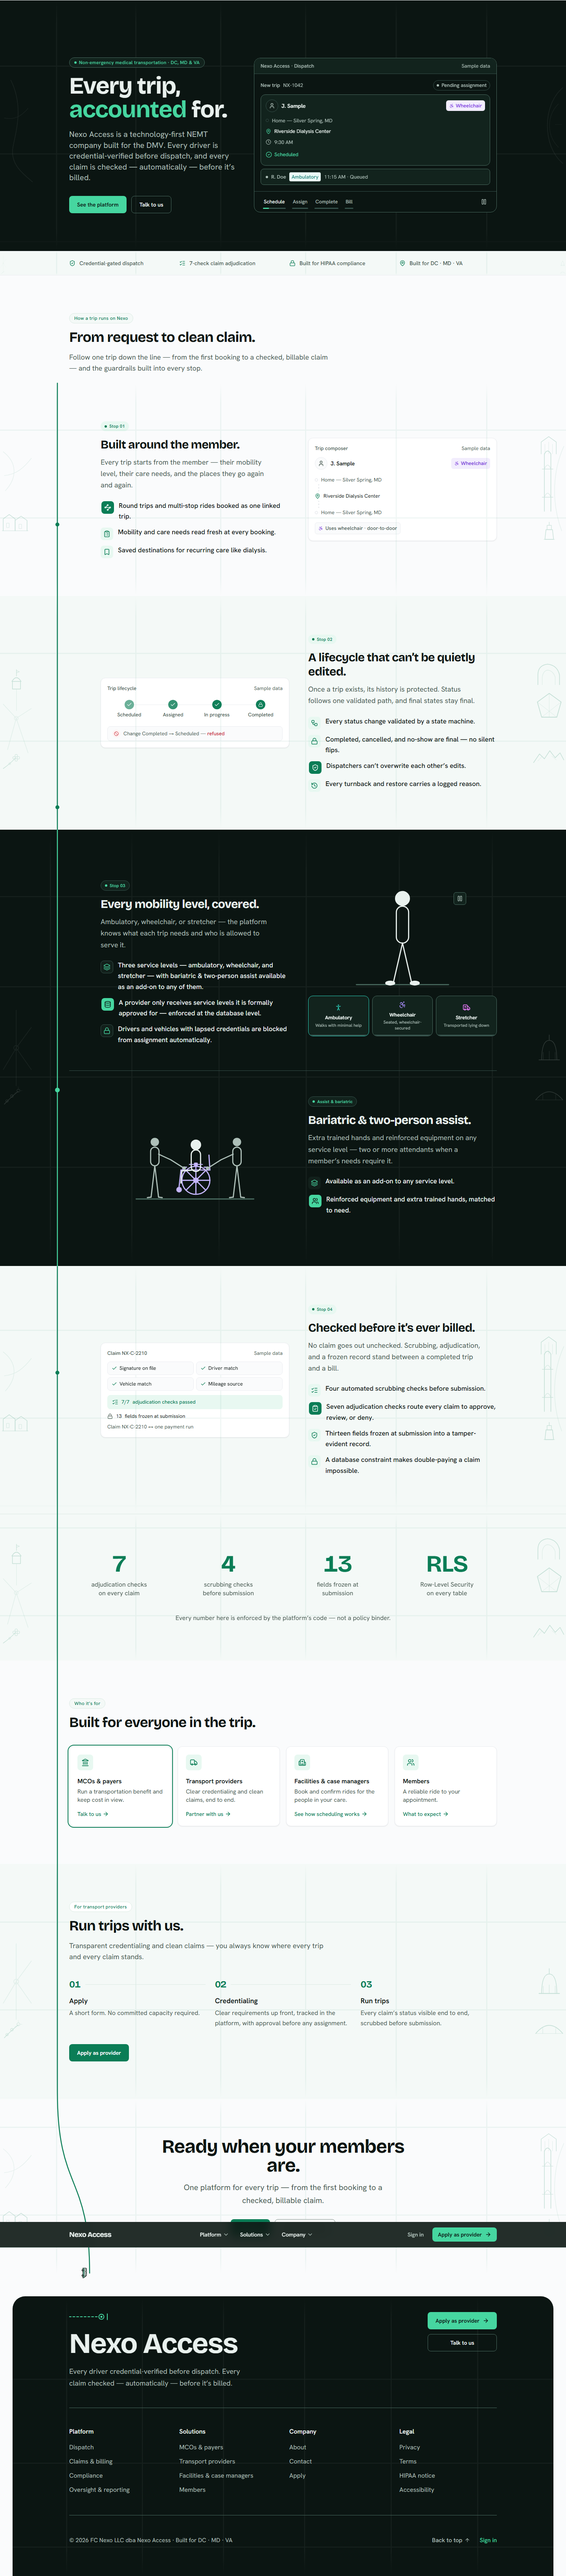
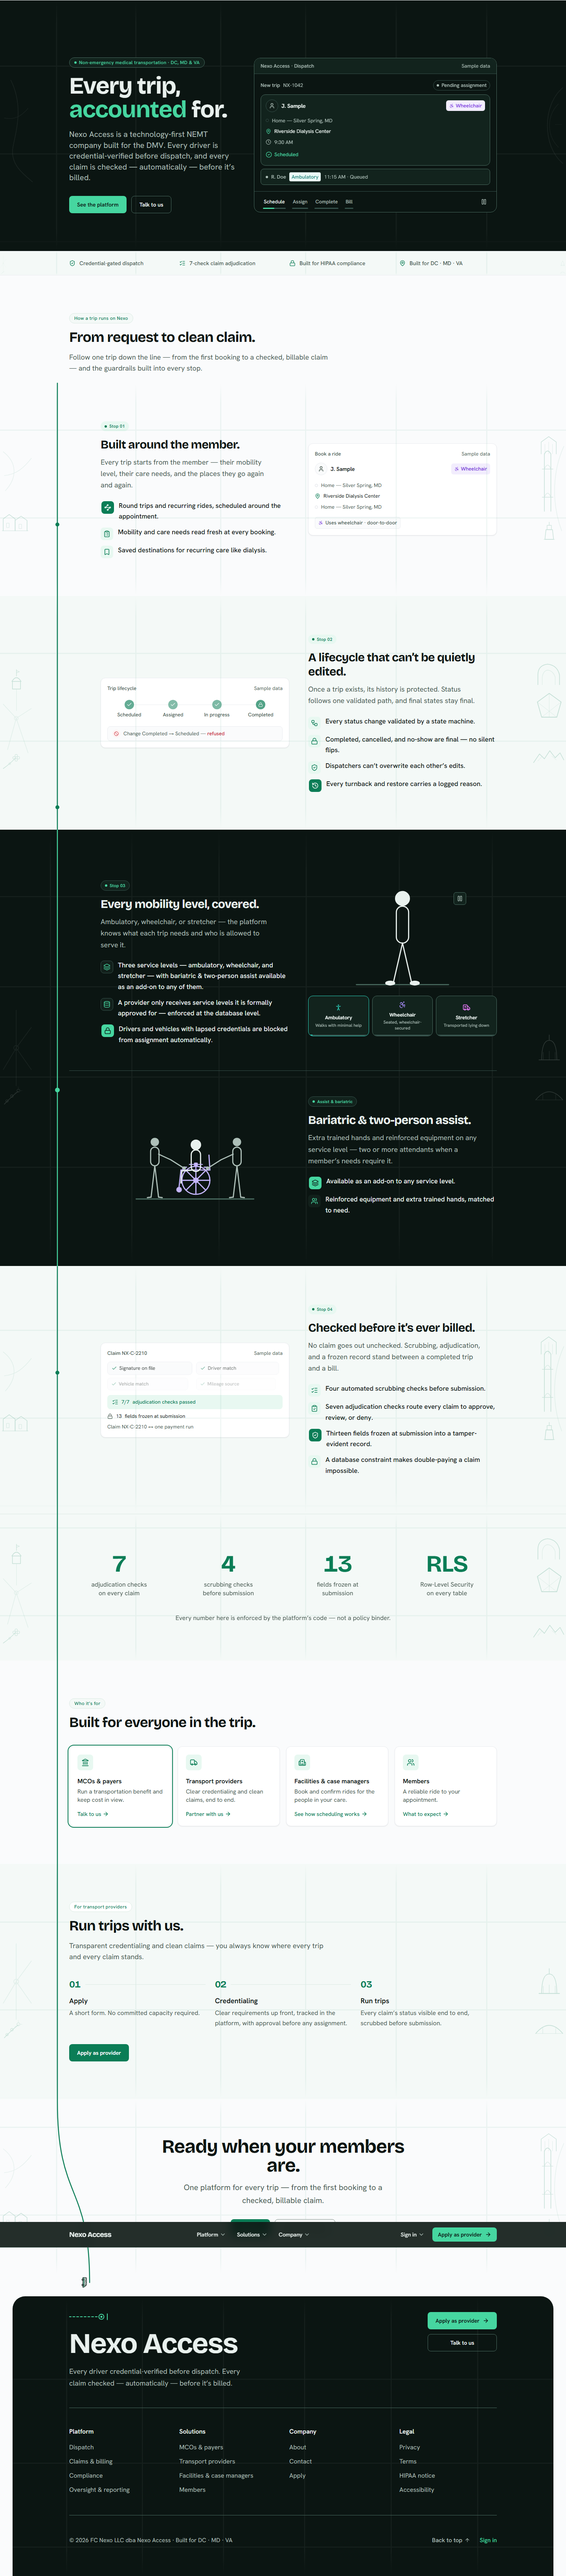
Stage 15: Sign-in nav panel - three portal doors, admin unlisted, seam contract

diff --git a/src/components/chrome/Navbar.tsx b/src/components/chrome/Navbar.tsx
@@ -9,6 +9,7 @@ import {
   PLATFORM_ITEMS,
   SOLUTIONS_ITEMS,
   COMPANY_ITEMS,
+  SIGNIN_ITEMS,
   type NavItem,
 } from "@/lib/nav";
 import { Button } from "@/components/ui/Button";
@@ -29,7 +30,7 @@ import { cn } from "@/utils/cn";
 //   - a "magic line" (Radix Indicator) slides between triggers on hover/focus;
 //   - the caret rotates 180deg on open; the panel grows origin-aware from its trigger;
 //   - panel items cascade in; each item has a fill sweep + icon-chip fill + arrow nudge;
-//   - the CTAs get a lift/arrow and an underline slide; the mobile items cascade too.
+//   - the Apply CTA gets a lift + arrow nudge; the mobile items cascade too.
 // Every hover state has a focus twin (group-hover + group-focus-within / focus-visible).
 
 // The ONE nav theme bundle — the dark/on-ink register, used in every state. Panel + overlay are
@@ -83,10 +84,14 @@ function DesktopMenu({
   label,
   items,
   panelClass,
+  align = "left",
 }: {
   label: string;
   items: NavItem[];
   panelClass: string;
+  /** Which trigger edge the panel anchors to. Right-seated menus (Sign in) anchor RIGHT so a wide
+   *  panel opens inward instead of off the viewport's right edge; the grow-origin follows (.nav-panel-right). */
+  align?: "left" | "right";
 }) {
   return (
     <NavigationMenu.Item className="relative">
@@ -108,7 +113,8 @@ function DesktopMenu({
       </NavigationMenu.Trigger>
       <NavigationMenu.Content
         className={cn(
-          "nav-panel absolute left-0 top-full z-50 mt-1.5 rounded-xl border p-2 shadow-md",
+          "nav-panel absolute top-full z-50 mt-1.5 rounded-xl border p-2 shadow-md",
+          align === "right" ? "nav-panel-right right-0" : "left-0",
           NT.panel,
           panelClass
         )}
@@ -308,6 +314,8 @@ export function Navbar() {
           <div className="flex h-16 items-center justify-between gap-4">
             <Wordmark />
 
+            {/* The ONE nav landmark (Stage-1 rule: the nav landmark appears exactly once). Platform /
+                Solutions / Company live here with the shared magic line. */}
             <NavigationMenu.Root
               aria-label="Primary"
               delayDuration={100}
@@ -326,15 +334,28 @@ export function Navbar() {
             </NavigationMenu.Root>
 
             <div className="hidden items-center gap-2 lg:flex">
-              {/* Sign in — underline slide on hover/focus. Always the on-ink variant (dark bar). */}
-              <Button
-                href={SITE.appUrl}
-                variant="ghostOnInk"
-                size="sm"
-                className="nav-signin"
-              >
-                <span className="nav-signin-label">Sign in</span>
-              </Button>
+              {/* Sign in — a peer menu in the nav grammar (Stage 15): Radix trigger + caret + magic line
+                  + solid-ink panel + item cascade, same weight/register as the left menus, seated in the
+                  right cluster before Apply. It gets its OWN NavigationMenu.Root so its indicator tracks
+                  its own trigger — but that Root renders `asChild` as a <div>, NOT a second <nav>, so the
+                  site keeps exactly ONE nav landmark (the "Primary" root above; Stage-1 rule). Lists the
+                  three customer portal doors; admin is deliberately excluded (law §7.4). Panel anchors
+                  RIGHT so it opens inward. */}
+              <NavigationMenu.Root asChild delayDuration={100} skipDelayDuration={300}>
+                <div className="relative">
+                  <NavigationMenu.List className="flex items-center">
+                    <DesktopMenu
+                      label="Sign in"
+                      items={SIGNIN_ITEMS}
+                      panelClass="w-[26rem]"
+                      align="right"
+                    />
+                    <NavigationMenu.Indicator className="nav-indicator">
+                      <div className={cn("nav-indicator-bar", NT.indicatorBar)} />
+                    </NavigationMenu.Indicator>
+                  </NavigationMenu.List>
+                </div>
+              </NavigationMenu.Root>
               {/* Apply — lift + arrow nudge; the single bright accent pop on the dark bar. */}
               <Button
                 href="/apply"
@@ -391,15 +412,16 @@ export function Navbar() {
             <MobileAccordion label="Platform" items={PLATFORM_ITEMS} onNavigate={closeMobile} index={0} />
             <MobileAccordion label="Solutions" items={SOLUTIONS_ITEMS} onNavigate={closeMobile} index={1} />
             <MobileAccordion label="Company" items={COMPANY_ITEMS} onNavigate={closeMobile} index={2} />
+            {/* Sign in — a fourth accordion group in the same grammar (Stage 15), holding the three portal
+                doors. The pinned row below keeps ONLY the primary CTA so "Sign in" appears exactly once
+                (no duplicate affordance). */}
+            <MobileAccordion label="Sign in" items={SIGNIN_ITEMS} onNavigate={closeMobile} index={3} />
           </div>
 
           <div
             className="nav-cascade flex shrink-0 flex-col gap-3 border-t border-on-ink-border p-6"
-            style={{ ["--i" as string]: 3 }}
+            style={{ ["--i" as string]: 4 }}
           >
-            <Button href={SITE.appUrl} variant="secondaryOnInk" size="md" className="w-full" onClick={closeMobile}>
-              Sign in
-            </Button>
             <Button href="/apply" variant="primaryOnInk" size="md" className="w-full" onClick={closeMobile}>
               Apply as provider
             </Button>

diff --git a/src/lib/site.ts b/src/lib/site.ts
@@ -2,11 +2,25 @@
 // ALL chrome (Navbar, Footer, metadata, links) reads from here — never hardcode
 // a URL, email, or legal name anywhere else in the app.
 
+const APP_URL = "https://app.nexoaccess.com";
+
+// The three CUSTOMER-facing portal doors (Stage 15). Admin is DELIBERATELY excluded from every public
+// surface — the marketing site never links to, names, or hints at the admin portal (security posture;
+// recorded in law §7.4). The platform's own /login picker is the fallback door for direct visits.
+export type Portal = "member" | "provider" | "care";
+
 export const SITE = {
   name: "Nexo Access",
   legalName: "FC Nexo LLC",
   domain: "https://nexoaccess.com",
-  appUrl: "https://app.nexoaccess.com",
+  // The app (platform) ORIGIN — the identity counterpart to `domain`. Most links want a specific door,
+  // so they use `loginUrl` / `portalLogin` below (both built from the same APP_URL); `appUrl` is kept as
+  // the canonical bare-origin field for JSON-LD / future surfaces that need the origin itself.
+  appUrl: APP_URL,
+  // The platform's own /login picker — the SAME-TAB fallback door: the footer "Sign in", and where an
+  // unknown/absent `?portal=` param lands gracefully today (see portalLogin). A signed-in surface with
+  // no audience preselected.
+  loginUrl: `${APP_URL}/login`,
   // The ONE canonical public email (Stage 13 locked ruling). info@ is the only address that appears
   // ANYWHERE public — rendered pages, mailto links, JSON-LD, and the form auto-ack all read from here.
   email: "info@nexoaccess.com",
@@ -15,6 +29,11 @@ export const SITE = {
   // ADDRESS stays banned (none public).
   phone: { display: "(202) 409-2970", e164: "+12024092970" },
   serviceArea: ["DC", "MD", "VA"],
+  // Deep-link straight to one portal door (Stage 15). THE single source for portal URLs — never hardcode
+  // `/login?portal=…` anywhere. `?portal=` is a HINT the platform honors LATER (platform-repo task,
+  // flagged in DEPLOY-NOTES); TODAY an unknown/absent param lands gracefully on the loginUrl picker.
+  // These are same-tab PRODUCT HANDOFFS, not external references (law §7.4) — callers add no target.
+  portalLogin: (portal: Portal) => `${APP_URL}/login?portal=${portal}`,
 } as const;
 
 // How the founder is referred to in copy (Stage 9). ONE constant so the owner can later set a real

diff --git a/src/app/globals.css b/src/app/globals.css
@@ -225,6 +225,9 @@ a:active {
 /* Panel — origin-aware entrance: grows from its trigger's top-left corner, scale(0.96->1)
    + 8px rise + fade. Open <=200ms, close faster. Decelerate ease. */
 .nav-panel { transform-origin: top left; }
+/* Right-cluster menus (Sign in) anchor to the trigger's RIGHT edge, so the panel must also GROW from
+   its top-right corner — otherwise it would scale out of a corner that isn't pinned to the trigger. */
+.nav-panel-right { transform-origin: top right; }
 .nav-panel[data-state="open"]   { animation: navPanelIn 200ms cubic-bezier(0.22, 1, 0.36, 1); }
 .nav-panel[data-state="closed"] { animation: navPanelOut 130ms cubic-bezier(0.22, 1, 0.36, 1); }
 @keyframes navPanelIn {
@@ -289,21 +292,9 @@ a:active {
 .nav-apply-arrow { transition: transform 200ms cubic-bezier(0.22, 1, 0.36, 1); }
 .nav-apply:hover .nav-apply-arrow, .nav-apply:focus-visible .nav-apply-arrow { transform: translateX(3px); }
 
-/* "Sign in" — underline slides in from the left on hover/focus. */
-.nav-signin-label { position: relative; }
-.nav-signin-label::after {
-  content: "";
-  position: absolute;
-  left: 0; right: 0; bottom: -2px;
-  height: 1.5px;
-  border-radius: 9999px;
-  background: currentColor;
-  transform: scaleX(0);
-  transform-origin: left;
-  transition: transform 200ms cubic-bezier(0.22, 1, 0.36, 1);
-}
-.nav-signin:hover .nav-signin-label::after,
-.nav-signin:focus-visible .nav-signin-label::after { transform: scaleX(1); }
+/* (Stage 15) The old ghost "Sign in" underline-slide was removed with that link — "Sign in" is now a
+   dropdown menu (trigger + caret + magic line), so it inherits the shared panel/cascade/indicator
+   grammar above and needs no bespoke underline rule. */
 
 /* ── THE PREMIUM TERMINUS (Stage 6.8). (a) Footer-link underline-slide — the nav item grammar on the
    footer's column links + Sign in (every hover has a focus twin). (b) The PLAY-ONCE arrival

diff --git a/src/lib/nav.ts b/src/lib/nav.ts
@@ -8,7 +8,9 @@ import {
   Truck,
   Hospital,
   Users,
+  UserRound,
 } from "lucide-react";
+import { SITE } from "@/lib/site";
 
 // Single source of truth for the site's information architecture. Navbar and
 // Footer both read from here so a route never appears in one place but not the
@@ -87,6 +89,34 @@ export const SOLUTIONS_ITEMS: NavItem[] = [
 export const COMPANY_ITEMS: NavItem[] = [
   { label: "About", href: "/about" },
   { label: "Contact", href: "/contact" },
+];
+
+// "Sign in" menu (Stage 15) — the three CUSTOMER-facing portal doors, in the nav item grammar
+// (icon + title + one-line desc). hrefs come ONLY from SITE.portalLogin (single source; the `?portal=`
+// hint the platform honors later). Admin is DELIBERATELY absent from every public surface (law §7.4).
+// Icons reuse the established audience vocabulary so a reader recognizes their own door at a glance:
+// Truck = provider world, Hospital = facilities/case-manager world; UserRound (a single account figure,
+// distinct from the Users audience glyph) = the individual member. Descriptions are gate-clean — they
+// describe portal contents (upcoming/past rides, claims/credentials/scheduling), never live "tracking".
+export const SIGNIN_ITEMS: NavItem[] = [
+  {
+    label: "Member",
+    href: SITE.portalLogin("member"),
+    description: "See your upcoming and past rides.",
+    icon: UserRound,
+  },
+  {
+    label: "Provider",
+    href: SITE.portalLogin("provider"),
+    description: "Claims, credentials & scheduling.",
+    icon: Truck,
+  },
+  {
+    label: "Care portal",
+    href: SITE.portalLogin("care"),
+    description: "For case managers & facilities — schedule rides for the people in your care.",
+    icon: Hospital,
+  },
 ];
 
 // Footer columns. Platform reuses the four anchors; Solutions reuses the four

diff --git a/src/components/solutions/SolutionPage.tsx b/src/components/solutions/SolutionPage.tsx
@@ -28,8 +28,6 @@ export type SolutionCta = {
   body?: string;
   label: string;
   href: string;
-  /** external app URL (member portal) → real anchor target/rel */
-  external?: boolean;
 };
 
 const eyebrowPill =
@@ -158,13 +156,10 @@ export function SolutionPage({
               <p className="mx-auto mt-4 max-w-xl text-lg leading-relaxed text-muted">{cta.body}</p>
             ) : null}
             <div className="mt-8">
-              <Button
-                href={cta.href}
-                variant="primary"
-                size="md"
-                target={cta.external ? "_blank" : undefined}
-                rel={cta.external ? "noopener noreferrer" : undefined}
-              >
+              {/* Stage 15: the solution-page CTA is now always SAME-TAB. The only external CTA had been
+                  the member portal (target=_blank); portal navigation is a same-tab product handoff
+                  (law §7.4), so the `external` escape hatch was removed rather than left dead. */}
+              <Button href={cta.href} variant="primary" size="md">
                 {cta.label}
               </Button>
             </div>

diff --git a/src/app/contact/page.tsx b/src/app/contact/page.tsx
@@ -101,14 +101,11 @@ export default function ContactPage() {
               <p className="mt-2 text-base leading-relaxed text-muted">
                 Need a ride or have a question about one? Sign in to your member portal.
               </p>
-              <Link
-                href={SITE.appUrl}
-                target="_blank"
-                rel="noopener noreferrer"
-                className={routeLink}
-              >
+              {/* Stage 15: the member portal door, SAME-TAB (product handoff, not an external reference —
+                  law §7.4). portalLogin is the single source; the old target=_blank + "(opens in a new
+                  tab)" cue are gone now that portal navigation stays in-tab. */}
+              <Link href={SITE.portalLogin("member")} className={routeLink}>
                 Member sign in
-                <span className="sr-only"> (opens in a new tab)</span>
                 <ArrowRight className="h-4 w-4 transition-transform group-hover:translate-x-0.5" aria-hidden="true" />
               </Link>
             </div>

diff --git a/src/components/chrome/Footer.tsx b/src/components/chrome/Footer.tsx
@@ -133,7 +133,10 @@ export function Footer() {
             </p>
             <div className="flex items-center gap-6">
               <BackToTop className={utilityLink} />
-              <Link href={SITE.appUrl} className={signInLink}>
+              {/* The fallback picker door (Stage 15): plain /login, no portal hint, SAME-TAB (a product
+                  handoff, not an external reference — law §7.4). The nav Sign-in menu offers the
+                  audience-specific doors; this footer link lands on the platform's own picker. */}
+              <Link href={SITE.loginUrl} className={signInLink}>
                 Sign in
               </Link>
             </div>

diff --git a/src/app/solutions/members/page.tsx b/src/app/solutions/members/page.tsx
@@ -102,8 +102,9 @@ export default function MembersPage() {
         heading: "Ready for your next ride?",
         body: "Sign in to see your rides.",
         label: "Member sign in",
-        href: SITE.appUrl,
-        external: true,
+        // Stage 15: the member portal door, SAME-TAB (product handoff, not an external reference —
+        // law §7.4). portalLogin is the single source; the old target=_blank + new-tab cue are gone.
+        href: SITE.portalLogin("member"),
       }}
     />
   );

diff --git a/.claude/skills/nexo-brand/SKILL.md b/.claude/skills/nexo-brand/SKILL.md
@@ -386,7 +386,7 @@ optional body + icon proof lines) → ONE closing CTA band.**
   column. DOM order is always TEXT-then-mock (reading order) even when visually flipped (`lg:order`).
 - **ONE primary action per page (the B5 rule):** the page BODY has exactly ONE actionable CTA — mcos =
   Talk to us → /contact · providers = Apply as provider → /apply · facilities = Talk to us → /contact ·
-  members = Member sign in → `SITE.appUrl` (EXTERNAL → `target="_blank"` + `rel="noopener noreferrer"`).
+  members = Member sign in → `SITE.portalLogin("member")` (SAME-TAB portal handoff — see §7.4; NOT `target="_blank"`).
 - **Tonal rhythm:** interior pages stay WHITE/TINT — the terminus footer is the page's ONLY ink (no new
   ink chapters). Hero = tint; proof sections alternate white/tint by parity; the CTA alternates off the
   section count; hairline `border-border` between bands.
@@ -437,8 +437,8 @@ only (the footer is the only ink). Copy gate additions in §7.2.
 - **/contact** — eyebrow → ONE h1 → subline (payers/facilities) → PRIMARY ACTION card: a real
   `mailto:${SITE.email}` button AND the address printed as SELECTABLE text beside it (NEVER mailto-only)
   + ONE soft line ("you'll hear back from the person who built the platform", NO SLA) → two quiet
-  ROUTING cards (providers → /apply; MEMBERS → `SITE.appUrl` external, `target="_blank"` +
-  `rel="noopener noreferrer"` — never route members to email) → `SERVICE_AREA_LINE`. The contact FORM now
+  ROUTING cards (providers → /apply; MEMBERS → `SITE.portalLogin("member")`, SAME-TAB portal handoff (§7.4)
+  — never route members to email) → `SERVICE_AREA_LINE`. The contact FORM now
   lives in the primary action card (§6.6); the `mailto:` path stays below as a quiet "Prefer email?" line
   (link + selectable address). AmbientMap DC bookends.
 
@@ -634,7 +634,7 @@ undecided; copy must NOT commit to one.
   Do not scatter it elsewhere.
 - **NO response-time promise / SLA** — "within 24 hours" (or any hours / business-days pledge) is
   BANNED. Soft framing only ("you'll hear back from the person who built the platform").
-- **MEMBERS are never routed to email for rides** — always to the member portal (`SITE.appUrl`).
+- **MEMBERS are never routed to email for rides** — always to the member portal (`SITE.portalLogin("member")`, same-tab; §7.4).
 - **"certified" is banned in rendered copy** (Stage 8 — unsubstantiated credential on a pre-live
   product; gate it behind a `launch.ts` flag if a real certification ever lands).
 - **PHI MICROCOPY on every lead form (Stage 10S):** "Please don't include any member or health
@@ -653,6 +653,31 @@ CLAIMS stay launch-flag governed — **no "serving" in any title/description/OG 
 `LIVE_OPERATIONS` ("Built for…" / neutral geography only). Visible-copy keyword weaving is MINIMAL and
 surgical (one spelled-out "non-emergency medical transportation (NEMT)" where a human would write it),
 each edit gate-audited. No keyword stuffing; no duplicate descriptions.
+
+### 7.4 THE SIGN-IN / PORTAL DOCTRINE (Stage 15)
+"Sign in" is a THIRD nav menu in the established grammar (Radix trigger + caret + magic-line
+participation + solid-ink panel + item cascade), **not a bare link**. It lists exactly the THREE
+customer-facing portal doors — **Member**, **Provider**, **Care portal** (for case managers &
+facilities). Mobile: a fourth accordion group in the same grammar; the pinned CTA row keeps ONLY
+"Apply as provider" so "Sign in" appears exactly once (no duplicate affordance).
+- **ADMIN IS EXCLUDED FROM EVERY PUBLIC SURFACE — permanently.** The marketing site never links to,
+  names, labels, or hints at an admin / staff / ops portal (nav, footer, sitemap, JSON-LD, visible
+  copy, alt/aria/sr-only). Security posture: the admin door is not advertised. Only the three customer
+  doors + the platform's own `/login` picker appear publicly.
+- **ONE SOURCE for portal URLs — `SITE.portalLogin(portal)`** → `${appUrl}/login?portal=<member|provider|care>`.
+  Never hardcode `/login?portal=…` anywhere. `?portal=` is a HINT the platform honors LATER
+  (platform-repo task, flagged in DEPLOY-NOTES); TODAY an unknown/absent param lands gracefully on
+  `SITE.loginUrl` (the picker), which is also the plain footer "Sign in" fallback.
+- **Portal navigation is a SAME-TAB product handoff, not an external reference.** All OUR portal links
+  open same-tab — **no `target="_blank"`, no `rel="noopener"`, no "(opens in a new tab)" cue.** (This
+  is the amendment that flipped the members-page CTA + the /contact routing card + the footer to
+  same-tab.) It applies ONLY to our portal doors; genuine THIRD-PARTY links — e.g. the HHS OCR
+  complaint page on `/hipaa` — KEEP `target="_blank"` + the new-tab cue.
+- **Portal-door subtitles are gate-clean (§7):** they describe portal CONTENTS ("See your upcoming and
+  past rides.", "Claims, credentials & scheduling.") — **NEVER "track" / "tracking" / live status /
+  ETA / map.** Member-facing language stays launch-flag governed.
+- Harness: **I7 asserts the Sign-in trigger is present AND opens** — a regression back to a plain link
+  drops it from the `aria-expanded` trigger set, which I7 now catches.
 
 ## 8. THE VISUAL VERIFICATION LOOP (mandatory, every visual change)
 Implement → run the production server → Playwright screenshots at **390 / 768 / 1280** (scratchpad

diff --git a/DEPLOY-NOTES.md b/DEPLOY-NOTES.md
@@ -75,6 +75,20 @@ to a friendly "temporarily unavailable", never a crash. See `.env.example` for t
 - [ ] Confirm `robots.txt` + `sitemap.xml` resolve on the live apex and list only apex URLs; re-run
       Lighthouse (SEO + Performance ≥ 90) against the live URL.
 
+## Platform-repo follow-ups (flagged — NOT this repo's launch)
+
+- **Honor the `?portal=` sign-in hint.** The marketing nav's "Sign in" menu deep-links to
+  `https://app.nexoaccess.com/login?portal=<member|provider|care>` (single-sourced from
+  `SITE.portalLogin`). **Today the platform can ignore the param** — an unknown/absent `?portal=` must
+  land gracefully on the existing `/login` picker (the same page the footer "Sign in" →
+  `SITE.loginUrl` points at). The platform-side task is to READ `?portal=` and preselect / route to
+  that audience's door. Until then, everything still works (picker fallback); this is an enhancement,
+  not a blocker.
+- **Admin stays off every public surface.** The three public doors are `member` / `provider` / `care`
+  only. The admin / staff / ops portal is **never** linked, named, or hinted at on the marketing site
+  (security posture, recorded in brand law §7.4). If the platform adds an admin login, it does NOT get
+  a marketing-site link.
+
 ## NAP consistency (permanent rule)
 
 **Name / Phone / Email must be letter-identical everywhere, forever** — the site, JSON-LD, Google Business
